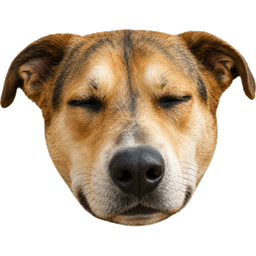
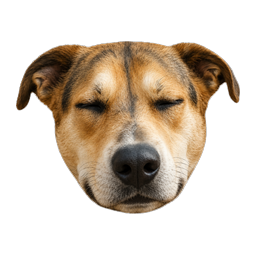
Cliente: Jaime borde fino + animación zzz al dormir (v200)

diff --git a/css/home.css b/css/home.css
@@ -617,6 +617,30 @@
 .home .jaime-fab[hidden]{ display:none; }
 .home .jaime-fab img{ width:100%; height:100%; object-fit:contain; display:block; }
 
+/* "zzz" flotante: decorativo, solo en estado dormido. Nunca intercepta clicks. */
+.home .jaime-zzz{
+  position:absolute; top:-6px; right:-4px; pointer-events:none;
+  display:none; line-height:1;
+}
+.home .jaime-fab.is-durmiendo .jaime-zzz{ display:block; }
+.home .jaime-zzz span{
+  position:absolute; bottom:0; right:0;
+  font-family:var(--body); font-weight:700; font-style:italic;
+  color:var(--c-oliva); opacity:0;
+  animation:jaimeZzz 2.7s ease-in-out infinite;
+}
+.home .jaime-zzz span:nth-child(1){ font-size:11px; animation-delay:0s; }
+.home .jaime-zzz span:nth-child(2){ font-size:14px; animation-delay:.9s; }
+.home .jaime-zzz span:nth-child(3){ font-size:17px; animation-delay:1.8s; }
+@keyframes jaimeZzz{
+  0%   { opacity:0; transform:translate(0,0) scale(.8); }
+  20%  { opacity:.85; }
+  100% { opacity:0; transform:translate(8px,-22px) scale(1.1); }
+}
+@media (prefers-reduced-motion: reduce){
+  .home .jaime-zzz span{ animation:none; opacity:0; }
+}
+
 /* Burbuja: sale del FAB hacia arriba/izquierda, con colita apuntando al botón. */
 .home .jaime-burbuja{
   position:fixed; right:16px; bottom:calc(env(safe-area-inset-bottom,0px) + 140px);

diff --git a/index.html b/index.html
@@ -15,7 +15,7 @@
     <link rel="apple-touch-icon" href="/clases/img/icon-192.png">
 
     <link rel="stylesheet" href="./css/styles.css?v=66">
-    <link rel="stylesheet" href="./css/home.css?v=17">
+    <link rel="stylesheet" href="./css/home.css?v=18">
     <link rel="stylesheet" href="./css/home-bridge.css?v=18">
     <link rel="stylesheet" href="./css/seguimiento.css?v=2">
 </head>
@@ -469,6 +469,7 @@
              #screen-app para vivir solo en la app logueada y heredar el tema. ── -->
         <button type="button" class="jaime-fab" id="jaime-fab" aria-label="Abrir asistente Jaime">
             <img src="img/jaime.png" alt="Jaime">
+            <span class="jaime-zzz" id="jaime-zzz" aria-hidden="true"><span>z</span><span>z</span><span>z</span></span>
         </button>
         <div class="jaime-burbuja" id="jaime-burbuja" hidden role="dialog" aria-label="Aviso de Jaime">
             <button type="button" class="jaime-burbuja__cerrar" id="jaime-burbuja__cerrar" aria-label="Cerrar">✕</button>
@@ -1164,6 +1165,6 @@
          inicialice. Ambos son scripts clásicos (no módulos) a propósito. -->
     <script src="./js/tutorial-pasos.js?v=3"></script>
     <script src="./js/tutorial.js?v=3"></script>
-    <script type="module" src="./js/app.js?v=106"></script>
+    <script type="module" src="./js/app.js?v=107"></script>
 </body>
 </html>

diff --git a/js/app.js b/js/app.js
@@ -1178,6 +1178,8 @@ function setJaimeCara(estado) {
     const src = JAIME_CARAS[estado];
     const fabImg = document.querySelector('#jaime-fab img');
     if (fabImg && fabImg.getAttribute('src') !== src) fabImg.setAttribute('src', src);
+    // El "zzz" flotante solo se ve en estado dormido.
+    document.getElementById('jaime-fab')?.classList.toggle('is-durmiendo', estado === 'durmiendo');
     const chat = document.getElementById('jaime-chat');
     if (chat && !chat.hasAttribute('hidden')) {
         const cabImg = chat.querySelector('.jaime-chat__cara');

diff --git a/service-worker.js b/service-worker.js
@@ -13,7 +13,7 @@
 // resuelve cada request al SW del scope más específico.
 // =====================================================================
 
-const CACHE_VERSION = 'v199';
+const CACHE_VERSION = 'v200';
 const CACHE_NAME = `clases-${CACHE_VERSION}`;
 
 const PRECACHE_URLS = [